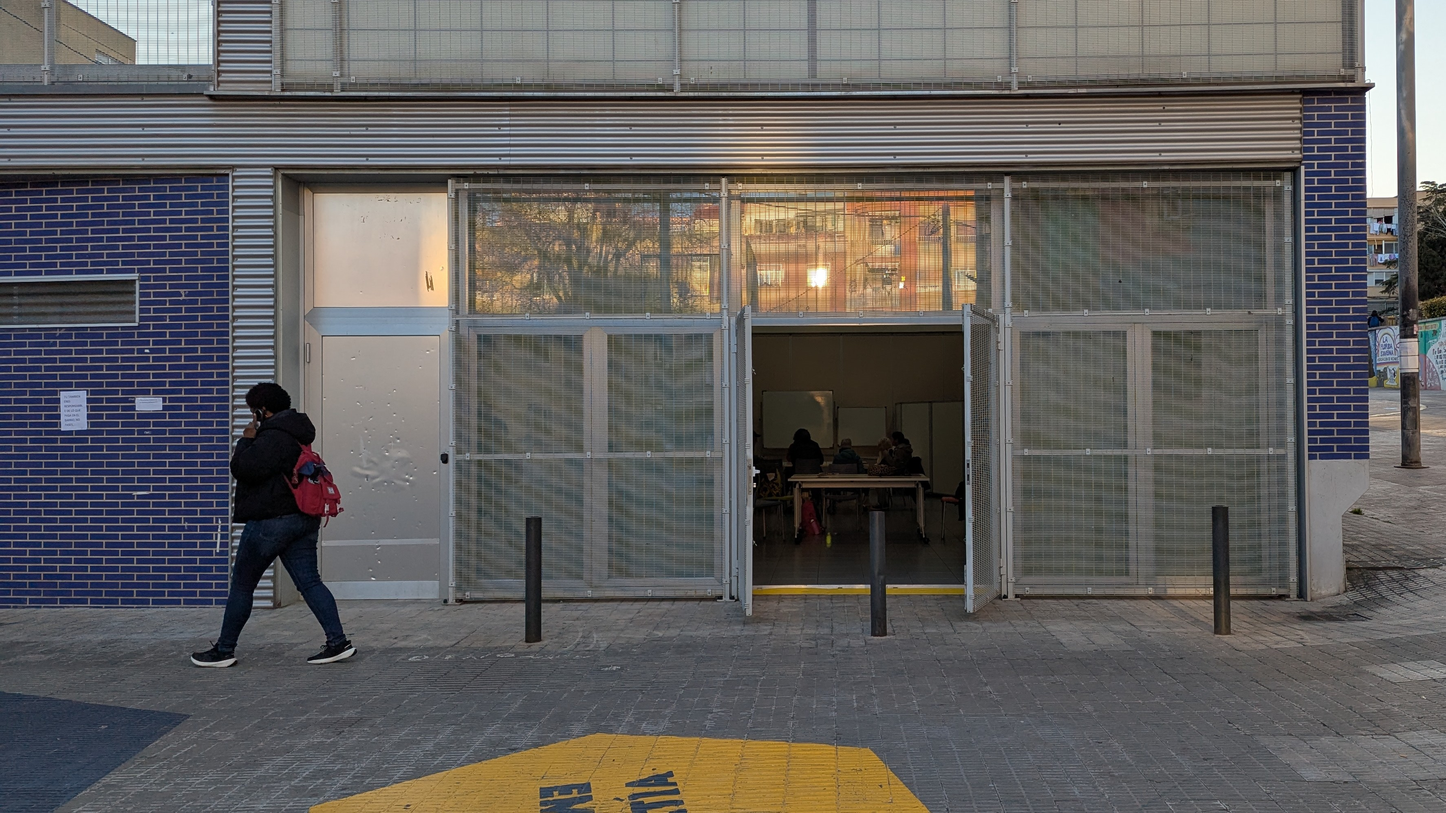
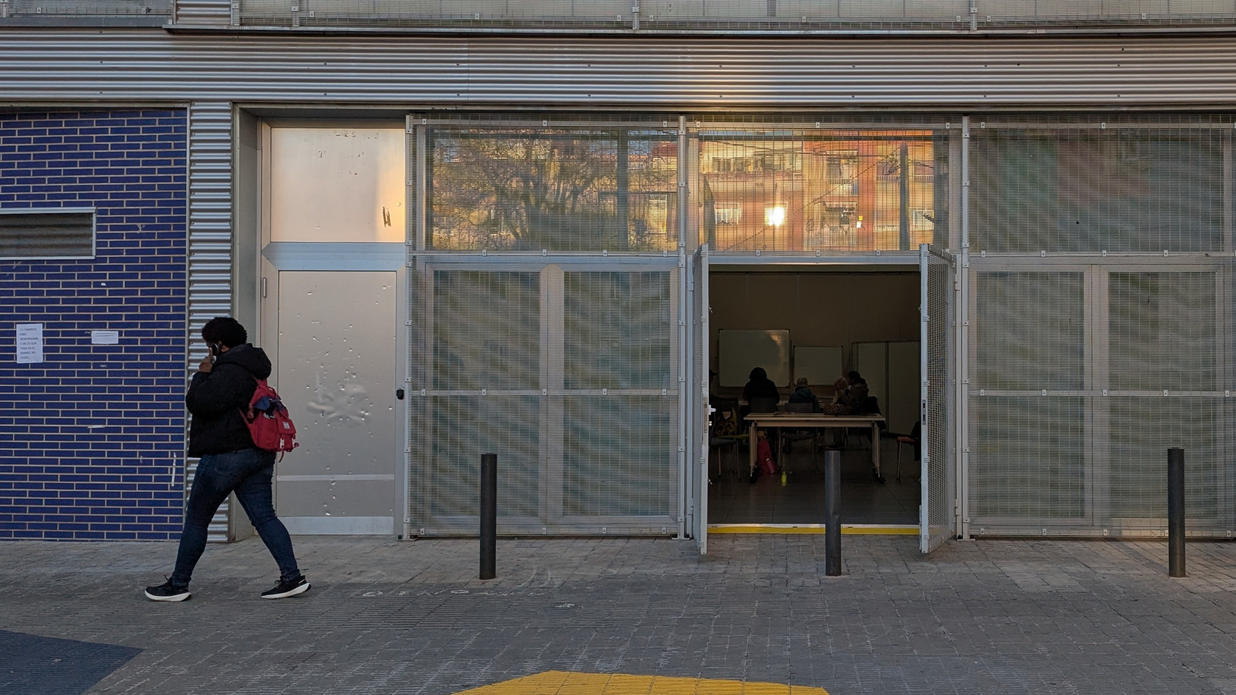
florida

diff --git a/term2/01-desing-studio ll.html b/term2/01-desing-studio ll.html
@@ -181,6 +181,9 @@
     
     <p style="margin-bottom: 21px;">3.1. visit </p>
     
+    <img style="margin-bottom: 21px;" src="../images/term 2/design studio ll/florida.jpg" alt="front" width="100%"/>
+
+
     <!DOCTYPE html>
     <html lang="en">
 
